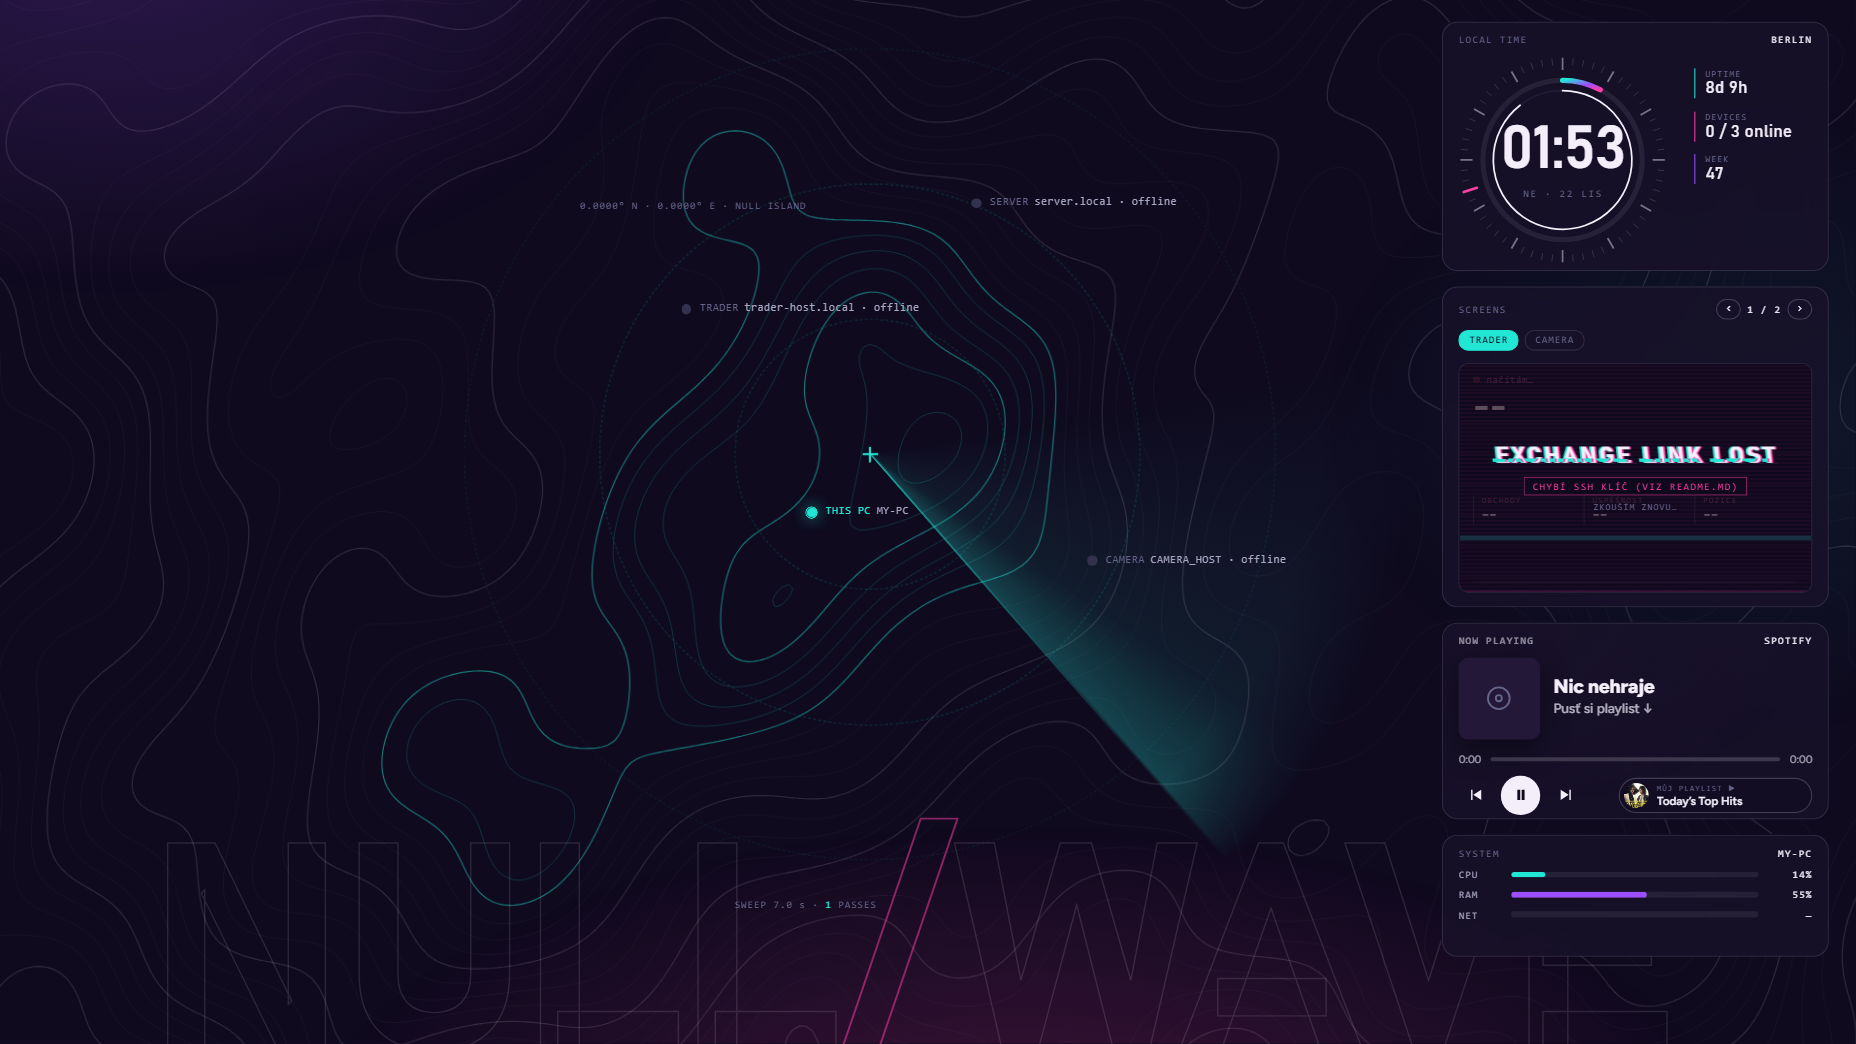
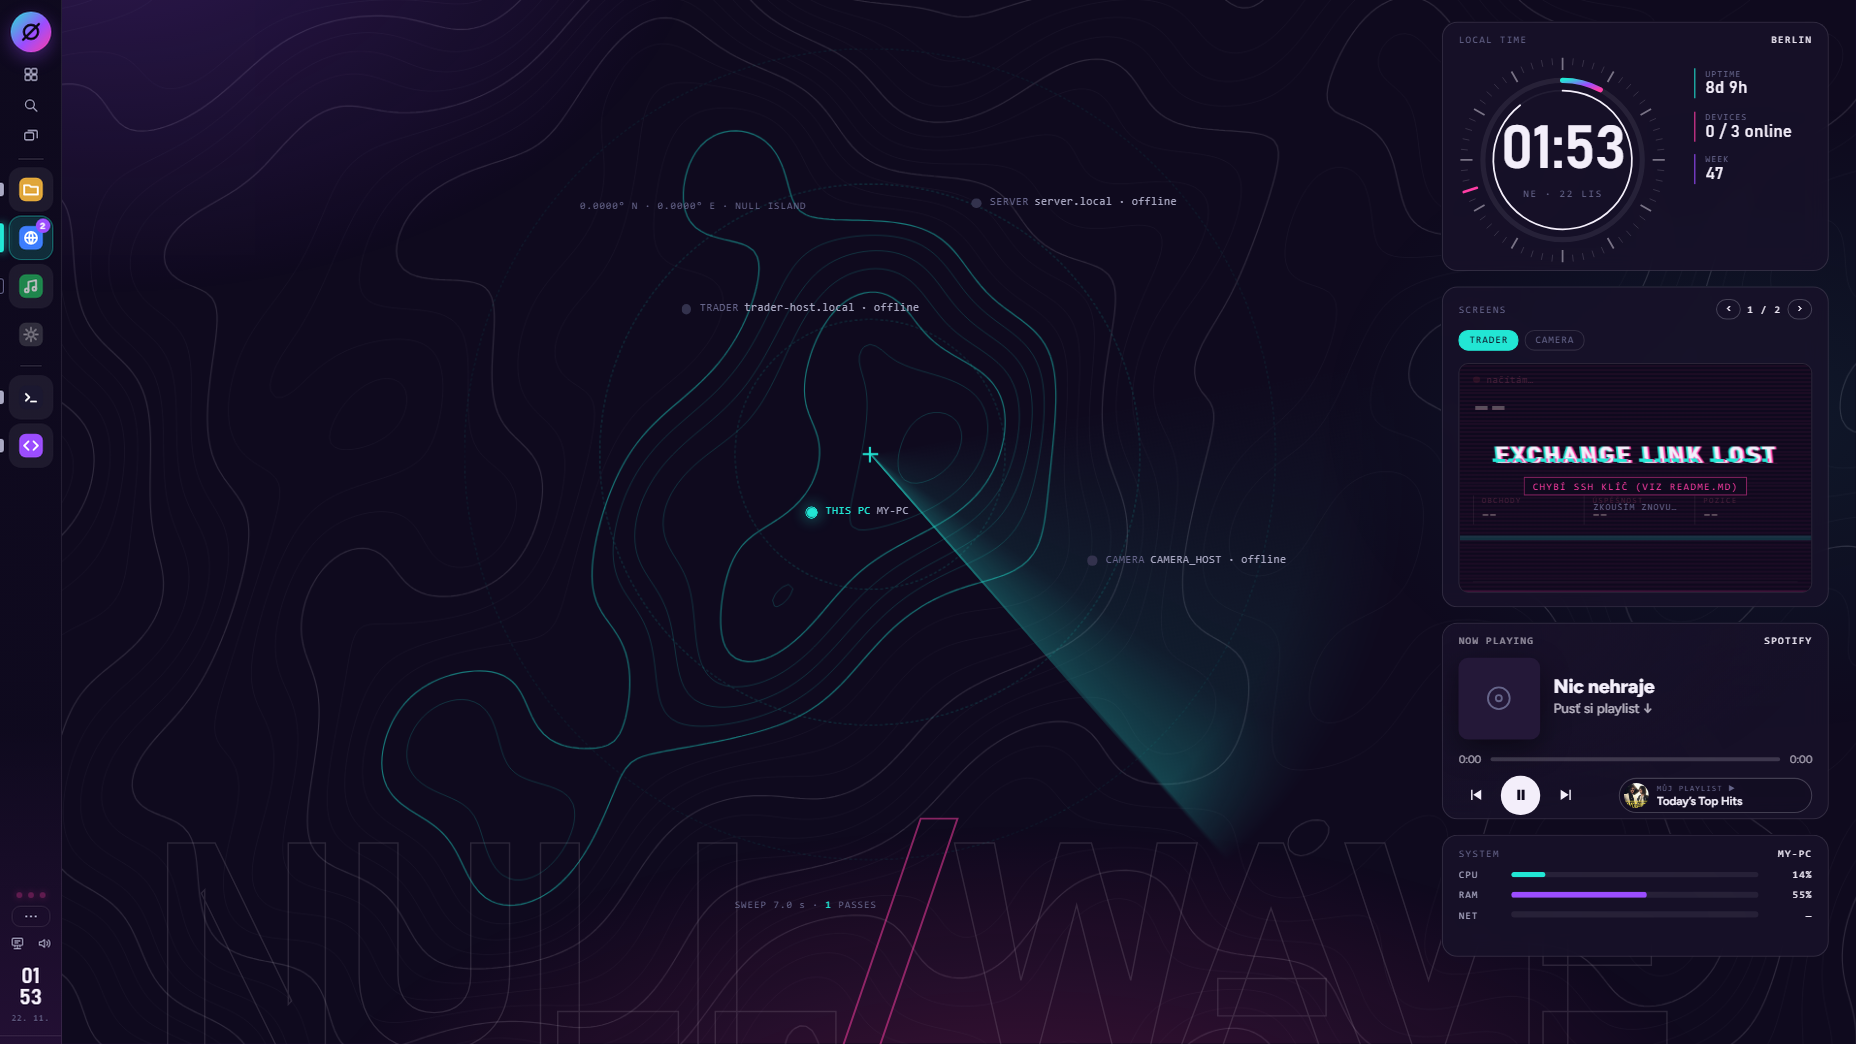
Show the rail and the radial launcher in the README screenshots

Changed region(s): [[0.0, 0.0, 0.0312, 0.3372], [0.0, 0.8889, 0.0312, 0.9808], [0.0, 0.3985, 0.0312, 0.4598]]

diff --git a/README.md b/README.md
@@ -6,6 +6,8 @@ An animated live desktop and taskbar replacement for Windows 11, in a teal, purp
 
 ![Nullwave desktop](docs/screenshot.png)
 
+<sub>The rail on the left replaces the Windows taskbar. Sample apps and placeholder hosts are shown.</sub>
+
 Nullwave puts a live wallpaper with widgets behind your desktop icons on every monitor. It replaces the Windows taskbar with a slim rail and switches the Windows look (dark mode, accent colour, cursors) to match. When you quit, everything goes back exactly as it was.
 
 > The UI text is in Czech. Strings sit next to the code in plain HTML/JS, so they are easy to translate.
@@ -25,7 +27,9 @@ Nullwave puts a live wallpaper with widgets behind your desktop icons on every m
   - Start, search, show desktop and clock
   - network type (LAN / Wi-Fi / offline)
   - notification-area icons through a flyout. A small UI Automation helper, compiled on first use from `shell/tray-helper.cs` with the .NET Framework `csc.exe` that ships with Windows.
-- **Launcher:** a radial app launcher with search and number keys for pinned apps.
+- **Launcher:** a radial "start menu" (Alt+Space or the logo on the rail) with search, number keys 1–0 for pinned apps and quick links.
+
+  ![Nullwave launcher](docs/launcher.png)
 - **Windows look switcher** (`theme/theme.ps1`). Dark mode, accent palette, cursors and wallpaper are written to HKCU and to the current theme file. A full backup is taken first and restored on quit.
 - **Optional switch-port widget** for TP-Link Easy Smart switches, through the PortTik app. It is off by default (`ports.enabled`) and needs PortTik, which is not part of this repository.
 - **Lightweight.** Feeds start only while something is looking at them. Everything pauses when the desktop is covered, and there are `lite` and `static` modes.
